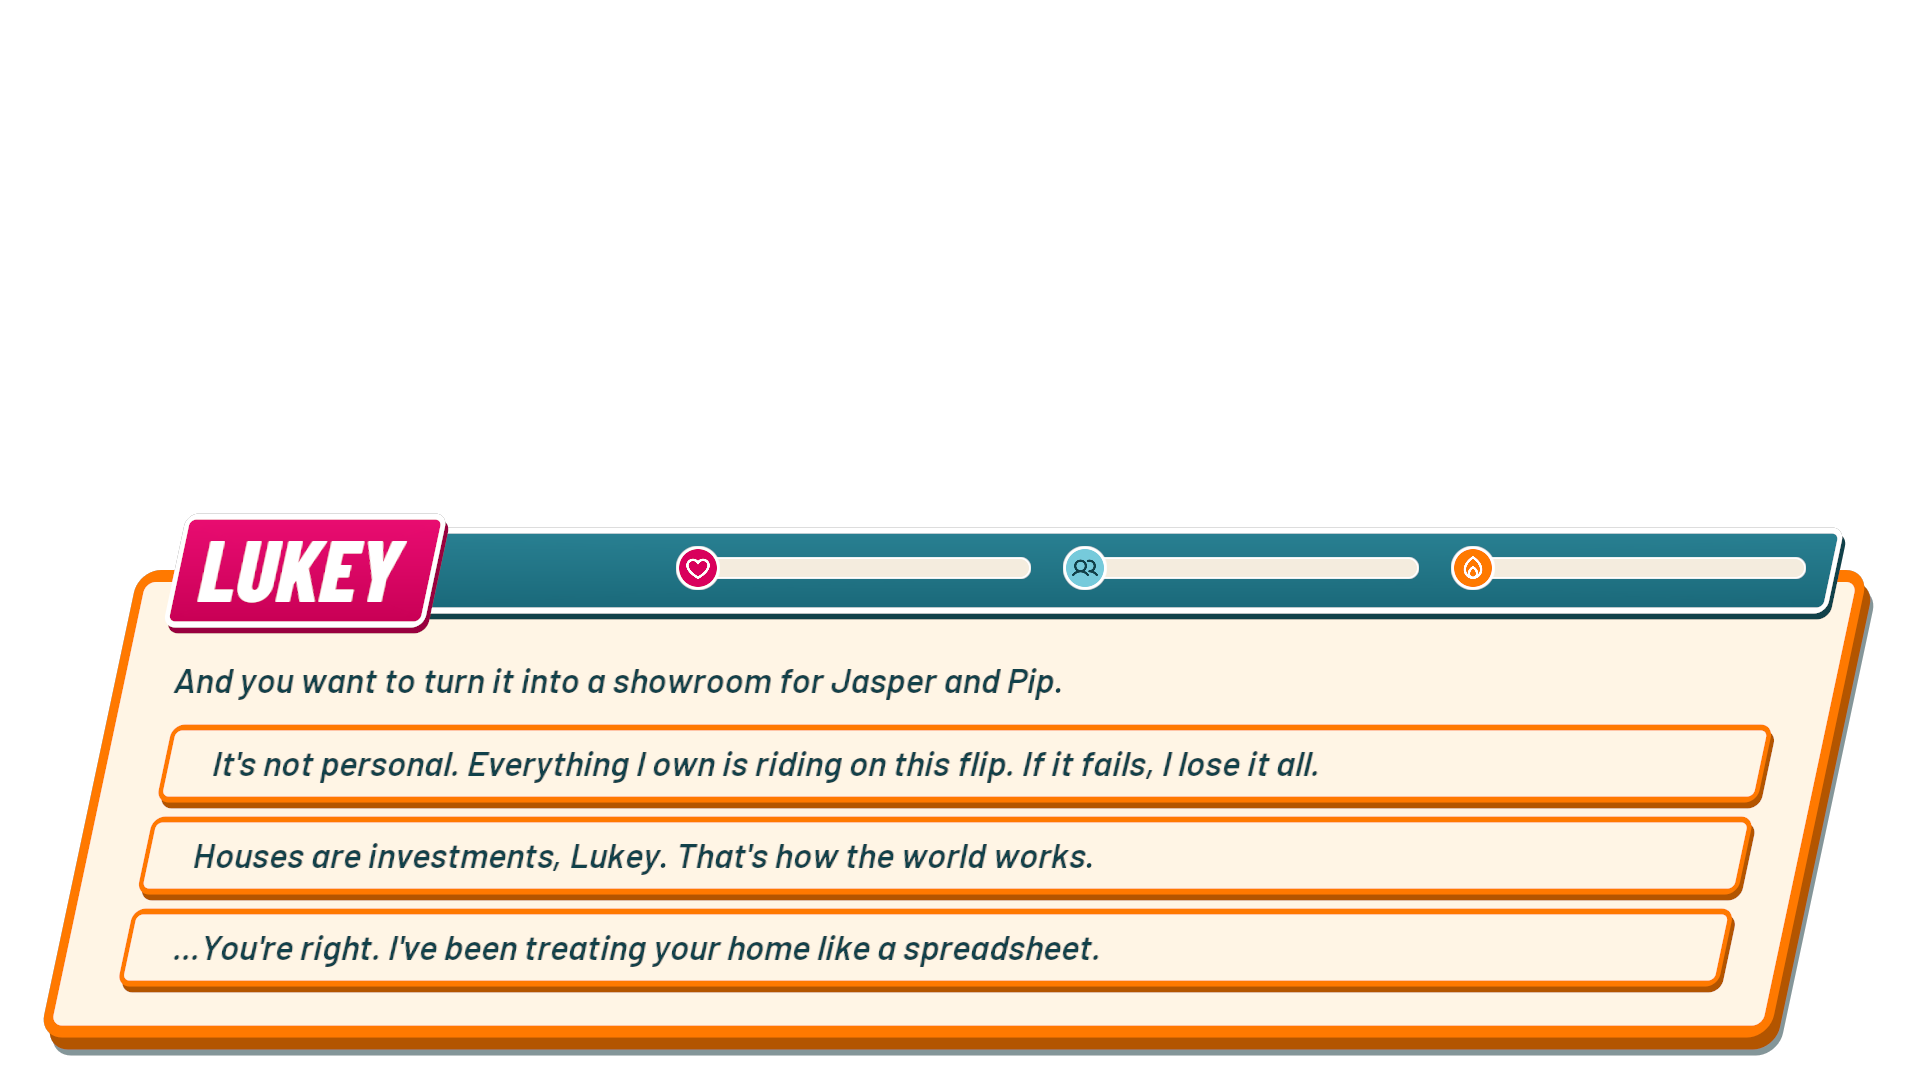
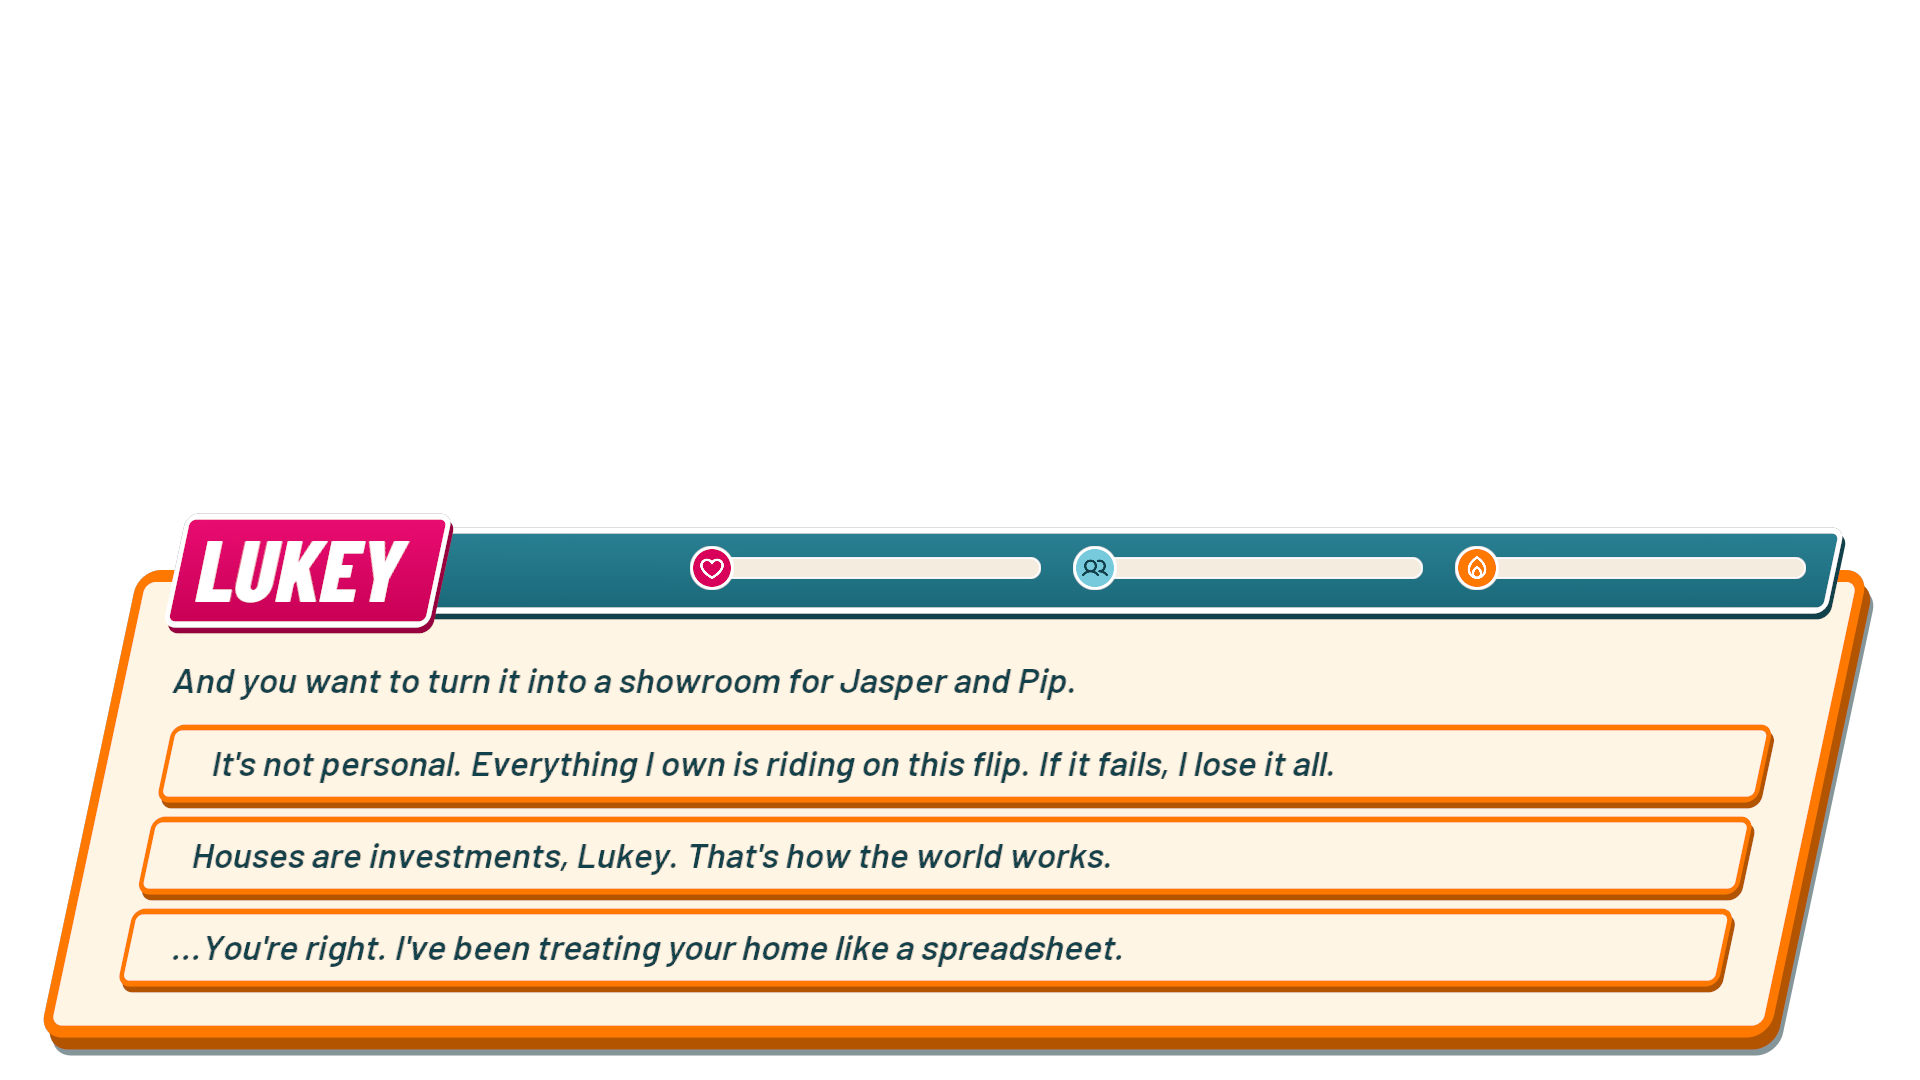
Text and rows follow the 12-degree grid exactly
Fonts switch to upright cuts (Barlow SemiBold; imported Barlow Condensed
ExtraBold, OFL) sheared the full 12 degrees, so wrapped lines step along the
grid instead of only 5 degrees. Card content columns are grid stacks again so
rows step too. Ending card widened to keep its title on two lines.

diff --git a/Source/ICanFixHim/UI/FixHimUI.cpp b/Source/ICanFixHim/UI/FixHimUI.cpp
@@ -52,11 +52,11 @@ FSlateFontInfo Font(int32 Size, const TCHAR *Typeface)
 		}
 		return TStrongObjectPtr<UFont>(F);
 	};
-	// Type rule: titles use the condensed display face; all other text is Barlow SemiBold Italic. Both are 7-degree
-	// italics that MakeText shears to the shared 12-degree grid. Legacy names (Regular/Semibold/Bold/Italic/Lean)
-	// all resolve to the body face.
-	static TStrongObjectPtr<UFont> Display = BuildFont({TEXT("BarlowCondensed-ExtraBoldItalic")});
-	static TStrongObjectPtr<UFont> Body = BuildFont({TEXT("Barlow-SemiBoldItalic")});
+	// Type rule: titles use Barlow Condensed ExtraBold; all other text is Barlow SemiBold. Both are upright cuts that
+	// MakeText (or a parent block) shears the full 12 degrees, so glyphs and wrapped lines step along the same grid.
+	// Legacy names (Regular/Semibold/Bold/Italic/Lean) all resolve to the body face.
+	static TStrongObjectPtr<UFont> Display = BuildFont({TEXT("BarlowCondensed-ExtraBold")});
+	static TStrongObjectPtr<UFont> Body = BuildFont({TEXT("Barlow-SemiBold")});
 	const bool IsDisplay = FCString::Strncmp(Typeface, TEXT("Display"), 7) == 0;
 	UFont *Asset = IsDisplay ? Display.Get() : Body.Get();
 	const int32 ScaledSize = FMath::RoundToInt(Size * FixHimDesign::TextScale());
@@ -560,7 +560,8 @@ UVerticalBox *UFixHimWidget::MakeCardScreen(const FString &Title, float Width)
 	BarStyle.SetDraggedThumbImage(Rounded(FixHimDesign::Ink, 3));
 	Scroll->SetWidgetBarStyle(BarStyle);
 	Inset->SetContent(Scroll);
-	auto *Col = WidgetTree->ConstructWidget<UVerticalBox>();
+	// A grid stack, so rows of card content step along the 12-degree columns.
+	auto *Col = WidgetTree->ConstructWidget<UFixHimStack>();
 	Scroll->AddChild(Col);
 	Layout->AddChildToVerticalBox(Bounds);
 	CardActions = WidgetTree->ConstructWidget<UFixHimStack>();

diff --git a/Source/ICanFixHim/UI/FixHimDesign.h b/Source/ICanFixHim/UI/FixHimDesign.h
@@ -23,7 +23,8 @@ inline const FLinearColor Disabled = FLinearColor::FromSRGBColor(FColor::FromHex
 inline const FLinearColor DisabledInk = FLinearColor::FromSRGBColor(FColor::FromHex(TEXT("565C60")));
 inline const FLinearColor Scrim = Ink.CopyWithNewOpacity(.72f);
 inline constexpr float Slant = 0.2125565617f;        // tan(12 degrees)
-inline constexpr float DisplayShear = 0.0897720008f; // tan(12) - tan(7)
+// Text is set in upright faces and sheared the full 12 degrees, so glyphs and wrapped lines both follow the grid.
+inline constexpr float DisplayShear = Slant;
 /** Keyline (outline) widths. Buttons and plates use ButtonBorder; popup cards and panels use twice that. */
 inline constexpr float ButtonBorder = 6.f, PopupBorder = 12.f;
 /**

diff --git a/Source/ICanFixHim/UI/FixHimCards.cpp b/Source/ICanFixHim/UI/FixHimCards.cpp
@@ -241,7 +241,7 @@ void UFixHimIntroCardWidget::NativeTick(const FGeometry& MyGeometry, float InDel
 
 void UFixHimEndingCardWidget::BuildUI()
 {
-	UVerticalBox* Col = MakeCardScreen(TEXT(""), 760.f);
+	UVerticalBox* Col = MakeCardScreen(TEXT(""), 880.f); // wide enough that the grid-stepped title keeps two lines
 	OpenSfx = NAME_None; // the ending jingle covers it
 	OutsideClickMinAge = 0.8f;
 	Card = CardSurface;

diff --git a/docs/03 Art & Audio/UI Design System.md b/docs/03 Art & Audio/UI Design System.md
@@ -49,11 +49,11 @@ Keep cream reading surfaces, disabled controls and reticles flat. Avoid glossy s
 
 | Role | Font | Treatment |
 |---|---|---|
-| Titles (headers, name plates): **all caps** | Barlow Condensed ExtraBold Italic, 800 | Effective 12° right lean |
-| Buttons and HUD plates: **mixed case** | Barlow Condensed ExtraBold Italic, 800 | Effective 12° right lean |
-| All other text: dialogue (26), body copy, labels, hints | Barlow SemiBold Italic, 600 | Effective 12° right lean |
+| Titles (headers, name plates): **all caps** | Barlow Condensed ExtraBold, 800 | 12° shear |
+| Buttons and HUD plates: **mixed case** | Barlow Condensed ExtraBold, 800 | 12° shear |
+| All other text: dialogue (26), body copy, labels, hints | Barlow SemiBold, 600 | 12° shear |
 
-**Rule: every piece of text leans 12°.** Both faces are 7° native italics topped up with the same synthetic shear. Upright Barlow Regular/Semibold are no longer used.
+**Rule: every piece of text leans 12°.** Both faces are set from their upright cuts and sheared the full 12°, so the glyphs and the steps between wrapped lines follow the same grid (Barlow's italics are essentially slanted romans, so the result matches them). Card and panel content rows sit in grid stacks, so each row also steps left by 12° as it goes down.
 
 Barlow Condensed's native italic lean is 7°. Barlow SemiBold Italic is also 7°. The selected 12° treatment adds the same synthetic shear to both faces. Added shear tangent: `tan(12°) - tan(7°) = 0.0897720008`. Text baselines stay horizontal. Spoken lines are sheared as one block, so wrapped lines also step along the grid. Icons stay upright.
 

diff --git a/docs/04 Tech/UI Component Library.md b/docs/04 Tech/UI Component Library.md
@@ -17,7 +17,7 @@ Implementation companion to [[UI Design System]]. The visual decisions remain th
 | `Art Source/UI/Design/` | Prepared font files, icon masks, logo and licenses |
 | `Content/ICanFixHim/UI/Design/` | Imported cooked assets |
 
-Imported font faces are assembled into strongly referenced runtime `UFont` families. Titles, buttons and HUD plates use the display face (Barlow Condensed ExtraBold Italic); every other typeface name resolves to Barlow SemiBold Italic. Both are 7° italics; `MakeText` adds only the shear needed to reach 12°, except for `...Face` typefaces placed inside an already-sheared block. Screen widgets should obtain text from `FixHimUI::MakeText` / `Font`, not the engine default font.
+Imported font faces are assembled into strongly referenced runtime `UFont` families. Titles, buttons and HUD plates use the display face (Barlow Condensed ExtraBold); every other typeface name resolves to Barlow SemiBold. Both are upright cuts that `MakeText` shears the full 12° (`FixHimDesign::DisplayShear` = tan 12°), so glyph lean and line-to-line stepping match; `...Face` typefaces leave the shear to an already-sheared parent block. `MakeCardScreen` content columns are `UFixHimStack`s so rows step along the grid. Screen widgets should obtain text from `FixHimUI::MakeText` / `Font`, not the engine default font.
 
 ## Surface and placement primitives
 
